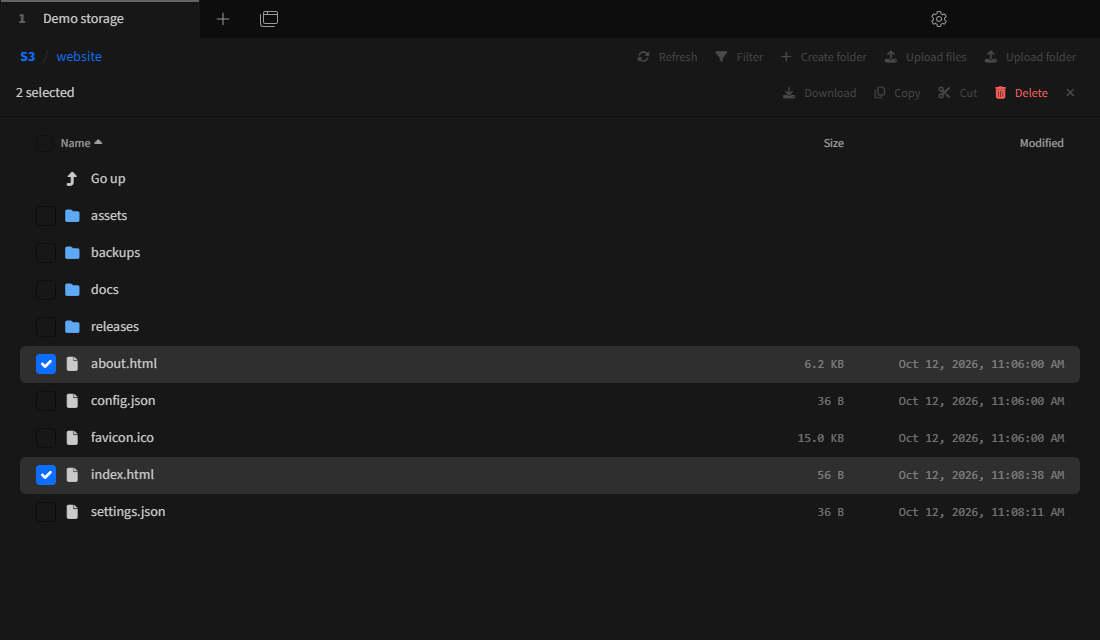
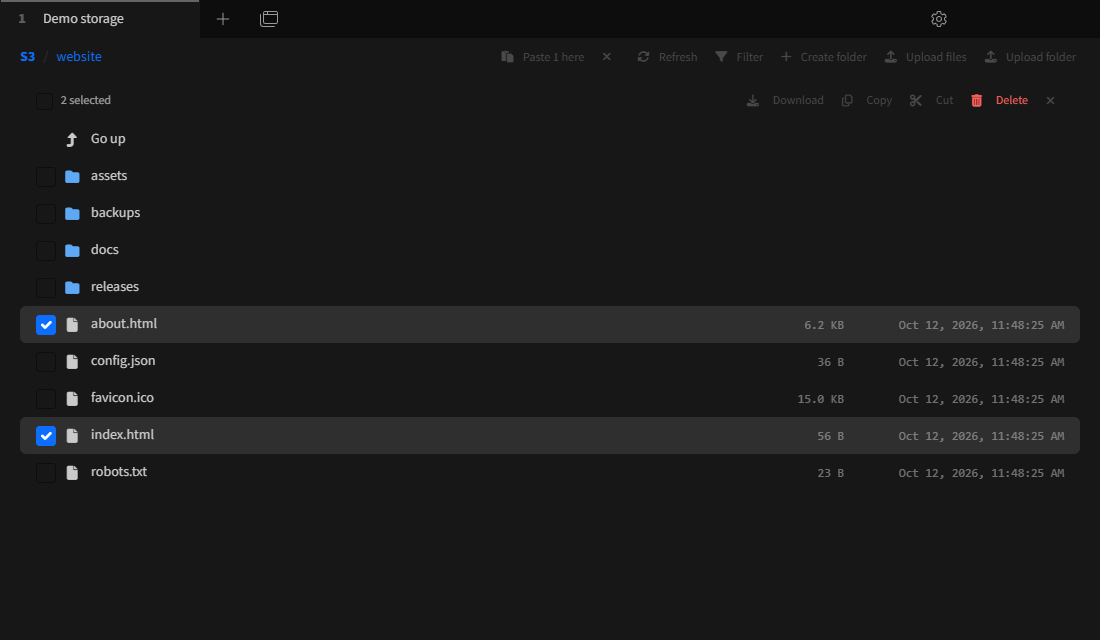
Keep the list in place when selecting items or copying them (0.2.1)
The selection actions and the clipboard appeared in bars above the list,
pushing every row down, so the row under the mouse changed after the
first click. The selection actions now replace the column titles, which
keep their height, and paste moves into the toolbar.

diff --git a/src/components/s3Tab.component.scss b/src/components/s3Tab.component.scss
@@ -11,7 +11,7 @@
         flex: none;
     }
 
-    > .filter-bar, > .action-bar {
+    > .filter-bar {
         flex: none;
     }
 
@@ -55,13 +55,24 @@
 
     .columns {
         font-size: 12px;
-        opacity: .75;
+        // The same height with column titles and with selection actions, so that the rows below don't move
+        height: 40px;
+
+        .sortable, .selection-count, .size, .date {
+            opacity: .75;
+        }
 
         .sortable {
             cursor: pointer;
             text-decoration: none;
             color: inherit;
             user-select: none;
+        }
+
+        .btn {
+            font-size: 12px;
+            padding: 0 .5rem;
+            white-space: nowrap;
         }
     }
 
@@ -88,7 +99,6 @@
 
     .columns .size, .columns .date {
         font-family: inherit;
-        opacity: 1;
     }
 
     .size {

diff --git a/README.md b/README.md
@@ -88,8 +88,8 @@ S3_TEST_ENDPOINT=http://127.0.0.1:19000 npm test
 Bump `version` in `package.json`, then push a tag:
 
 ```sh
-git tag v0.2.0
-git push origin v0.2.0
+git tag v0.2.1
+git push origin v0.2.1
 ```
 
 GitHub Actions lints, tests against an S3 server ([RustFS](https://github.com/rustfs/rustfs)), builds the plugin and attaches `tabby-s3-<version>.tgz` to the release. Then run `npm publish` for the Plugin Manager. The AWS SDK is bundled into `dist/index.js`, so the package has no runtime dependencies.
